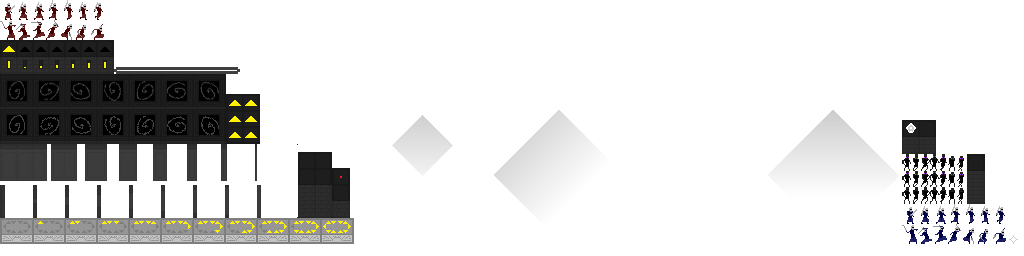
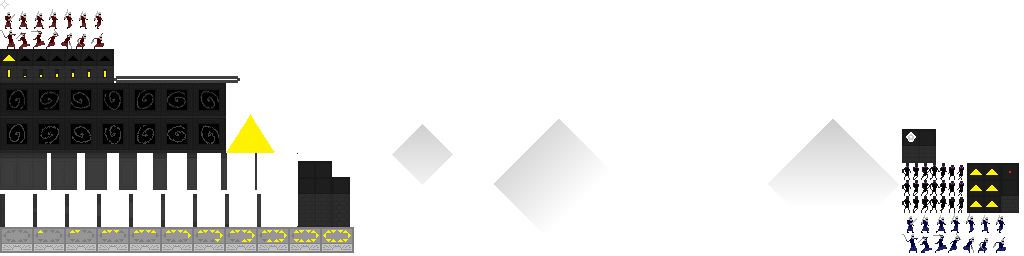
Added a basic HUD!

diff --git a/core/src/com/logicbytez/sanctuary/Assets.java b/core/src/com/logicbytez/sanctuary/Assets.java
@@ -16,12 +16,13 @@ import com.badlogic.gdx.utils.Array;
 
 public final class Assets{
 	public static Array<TiledMap> hallways;
-	public static BitmapFont font25, font50;
+	public static BitmapFont font25, font50, fontHud;
 	public static Music music_Exploration;
 	public static ShaderProgram vignette;
 	public static Sound sound_Door, sound_EidolonHurt, sound_InsertSunstone, sound_PlayerHurt, sound_SwordSlash, sound_SwordSwing;
 	private static TextureAtlas atlas;
 	public static TextureRegion texture_Altar, texture_Column, texture_Door, texture_Eidolon, texture_HealthIndicator;
+	public static TextureRegion texture_DisplaySunstone;
 	public static TextureRegion texture_PadButton, texture_PadDiagonal, texture_PadOutline, texture_PadStraight;
 	public static TextureRegion texture_PauseBar, texture_PedestalCrystal, texture_PedestalStone, texture_PlayerBlue, texture_PlayerRed, texture_Portal;
 	public static TiledMap room_Up, room_Down, room_Left, room_Right, room_Sanctuary;
@@ -47,6 +48,7 @@ public final class Assets{
 	private static void findTextureRegions(){
 		texture_Altar = atlas.findRegion("altar");
 		texture_Column = atlas.findRegion("column");
+		texture_DisplaySunstone = atlas.findRegion("sunstone");
 		texture_Door = atlas.findRegion("door");
 		texture_Eidolon = atlas.findRegion("eidolon");
 		texture_HealthIndicator = atlas.findRegion("health_indicator");
@@ -72,6 +74,8 @@ public final class Assets{
 		font25 = generator.generateFont(parameter);
 		parameter.size = 50;
 		font50 = generator.generateFont(parameter);
+		parameter.size = 25;
+		fontHud = generator.generateFont(parameter);
 		generator.dispose();
 	}
 

diff --git a/core/src/com/logicbytez/sanctuary/game/GameScreen.java b/core/src/com/logicbytez/sanctuary/game/GameScreen.java
@@ -29,6 +29,7 @@ public class GameScreen implements Screen{
 	private Activity activity;
 	private Array<Player> players;
 	private Array<Entity> entities;
+	private Display hud;
 	private Labyrinth labyrinth;
 	private TileRenderer tileRenderer;
 	private Main game;
@@ -63,6 +64,7 @@ public class GameScreen implements Screen{
 		camera = new OrthographicCamera(view.x, view.y);
 		cameraCenter = new Vector2();
 		display = new OrthographicCamera(view.x * 2, view.y * 2);
+		hud = new Display(batch, view);
 		entities = new Array<Entity>();
 		activity = new Activity(entities, this);
 		labyrinth = new Labyrinth(3, entities, this);
@@ -162,6 +164,7 @@ public class GameScreen implements Screen{
 			touchPads.getSprite(true).draw(batch);
 			touchPads.getSprite(false).draw(batch);
 		}
+		hud.update();
 		if(testing){
 			testing();
 		}else{

diff --git a/core/src/com/logicbytez/sanctuary/game/Display.java b/core/src/com/logicbytez/sanctuary/game/Display.java
@@ -1,7 +1,22 @@
 package com.logicbytez.sanctuary.game;
+import com.badlogic.gdx.graphics.g2d.SpriteBatch;
+import com.badlogic.gdx.math.Vector2;
+import com.logicbytez.sanctuary.Assets;
 
 public class Display{
-	//This is the HUD.
-	//It is basically a component of the "GameSceen".
-	//This needs to be implemented!
+	int crystals, stones;
+	SpriteBatch batch;
+	Vector2 view;
+	
+	public Display(SpriteBatch batch, Vector2 view){
+		this.batch = batch;
+		this.view = view;
+	}
+	
+	void update(){
+		int stoneHeight = Assets.texture_DisplaySunstone.getRegionHeight();
+		int stoneWidth = Assets.texture_DisplaySunstone.getRegionWidth();
+		batch.draw(Assets.texture_DisplaySunstone, -view.x, view.y - stoneHeight);
+		Assets.fontHud.draw(batch, String.valueOf(stones), -view.x + stoneWidth / 2 - 5, view.y - 12);
+	}
 }
